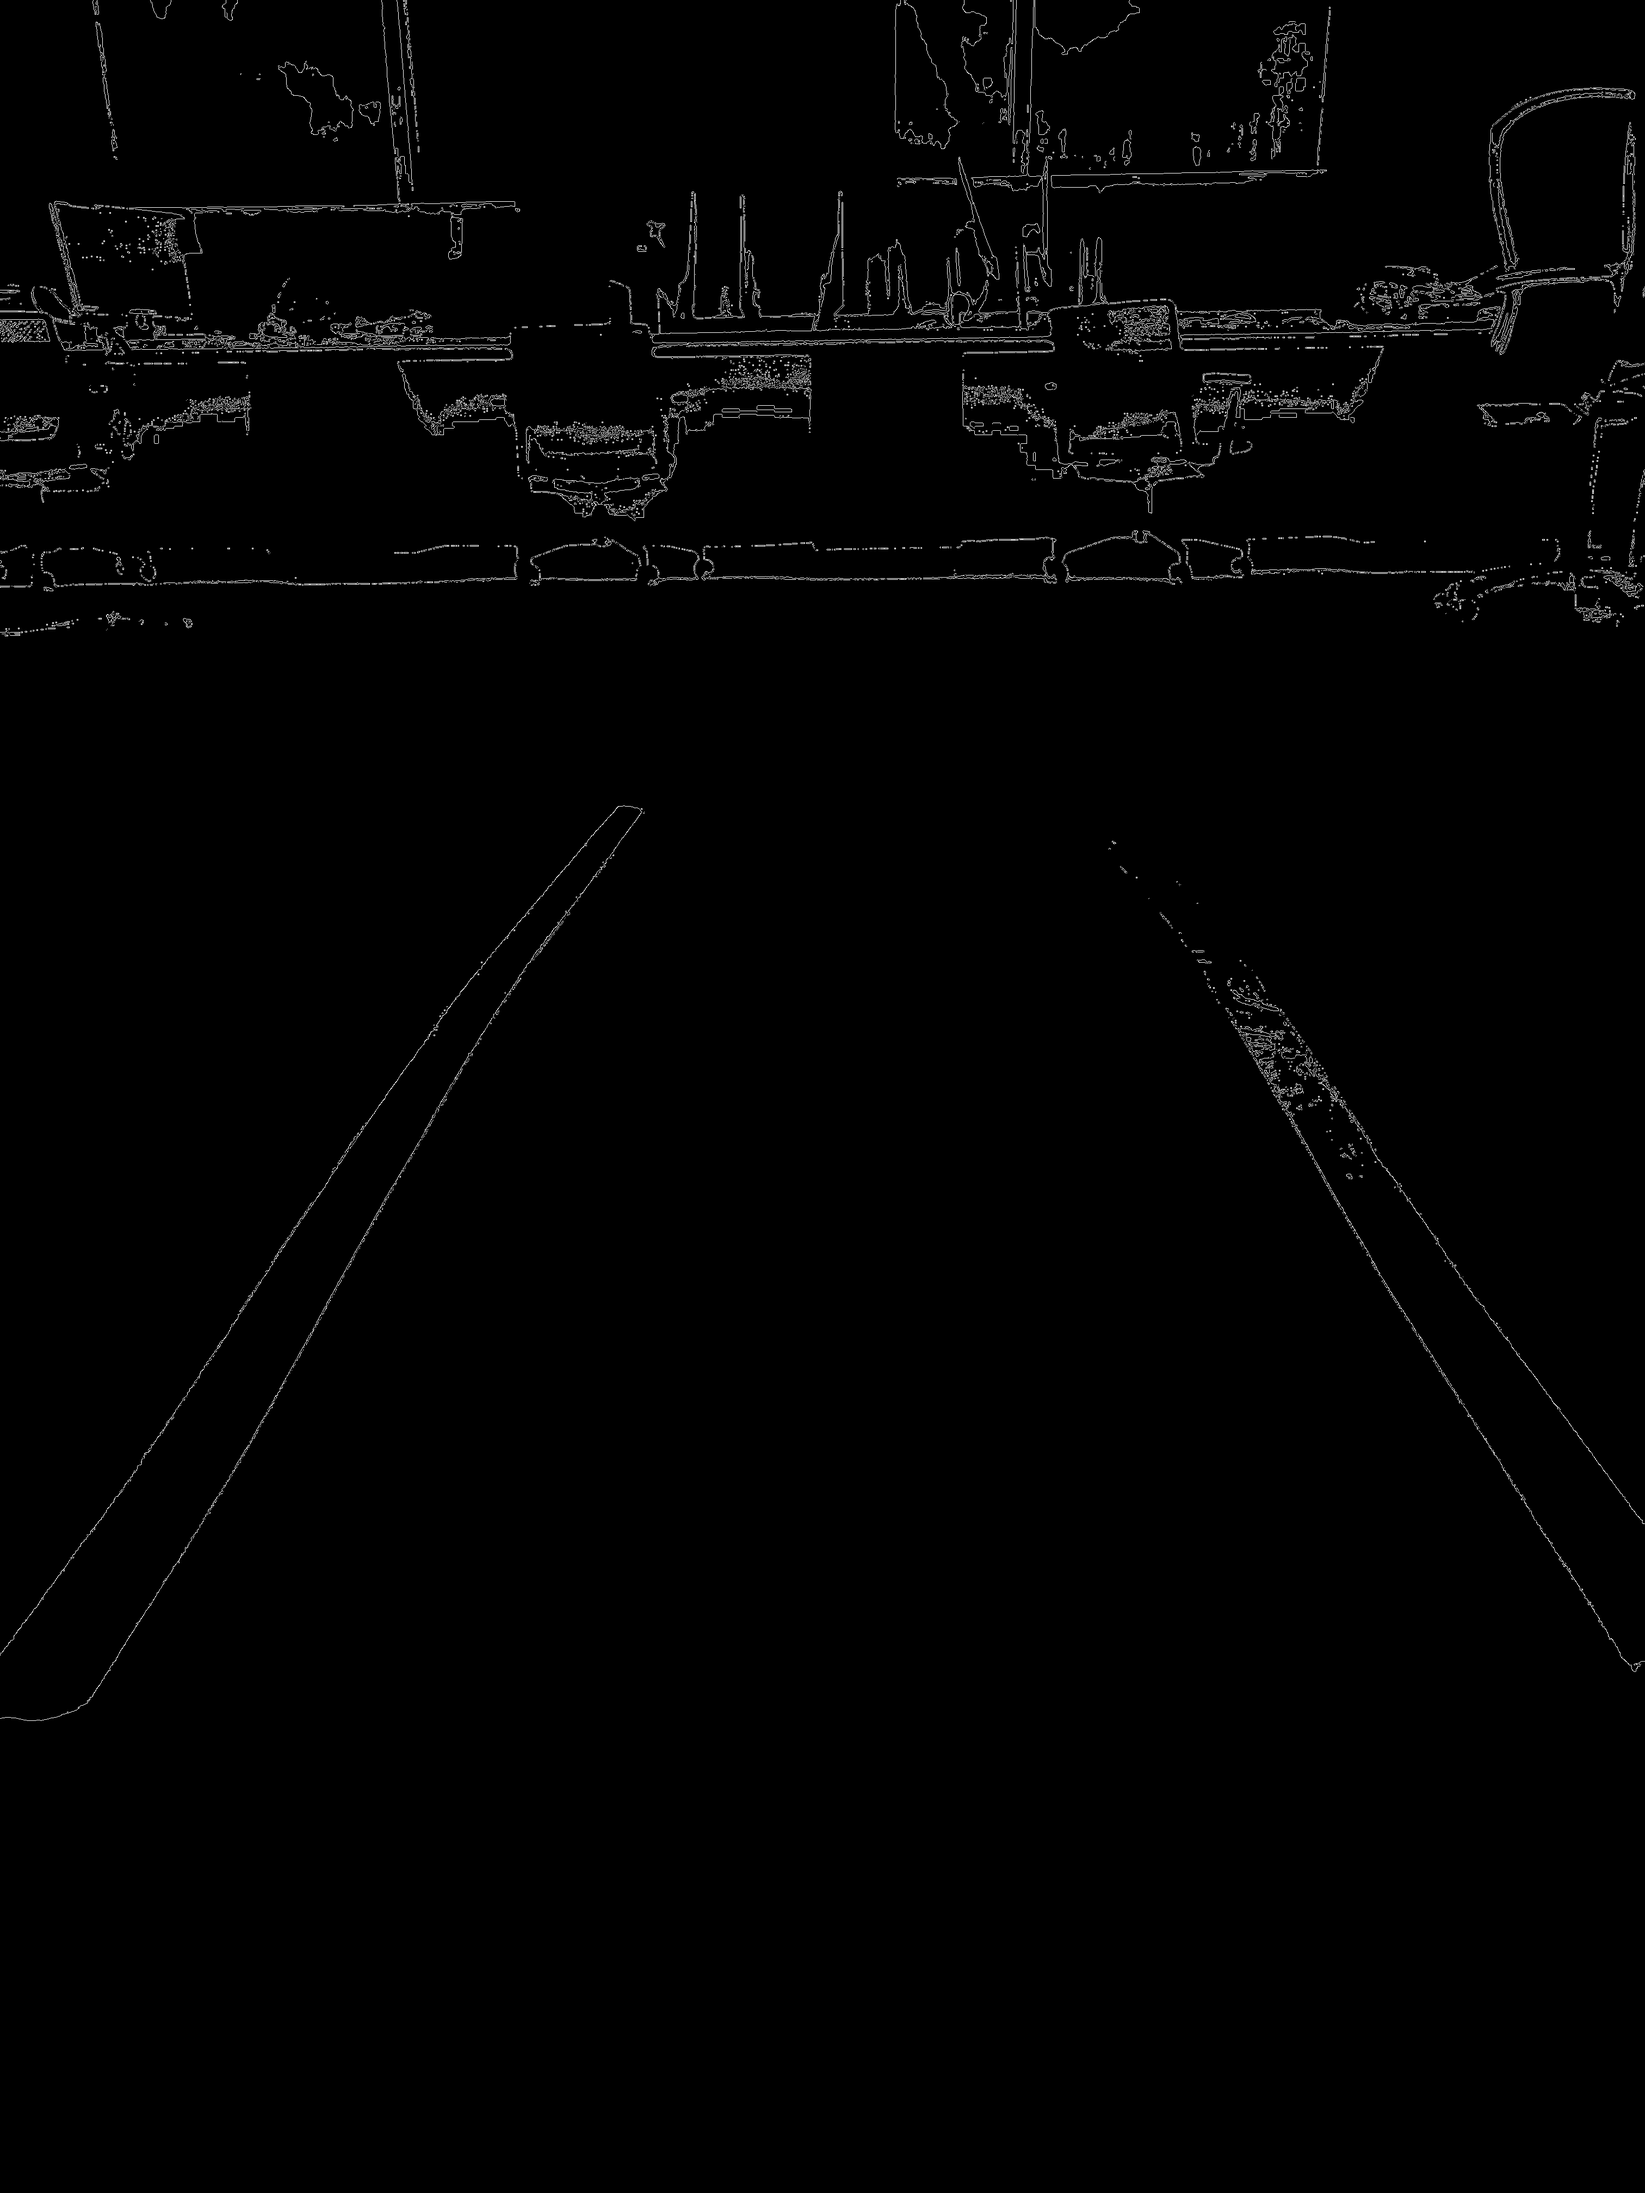
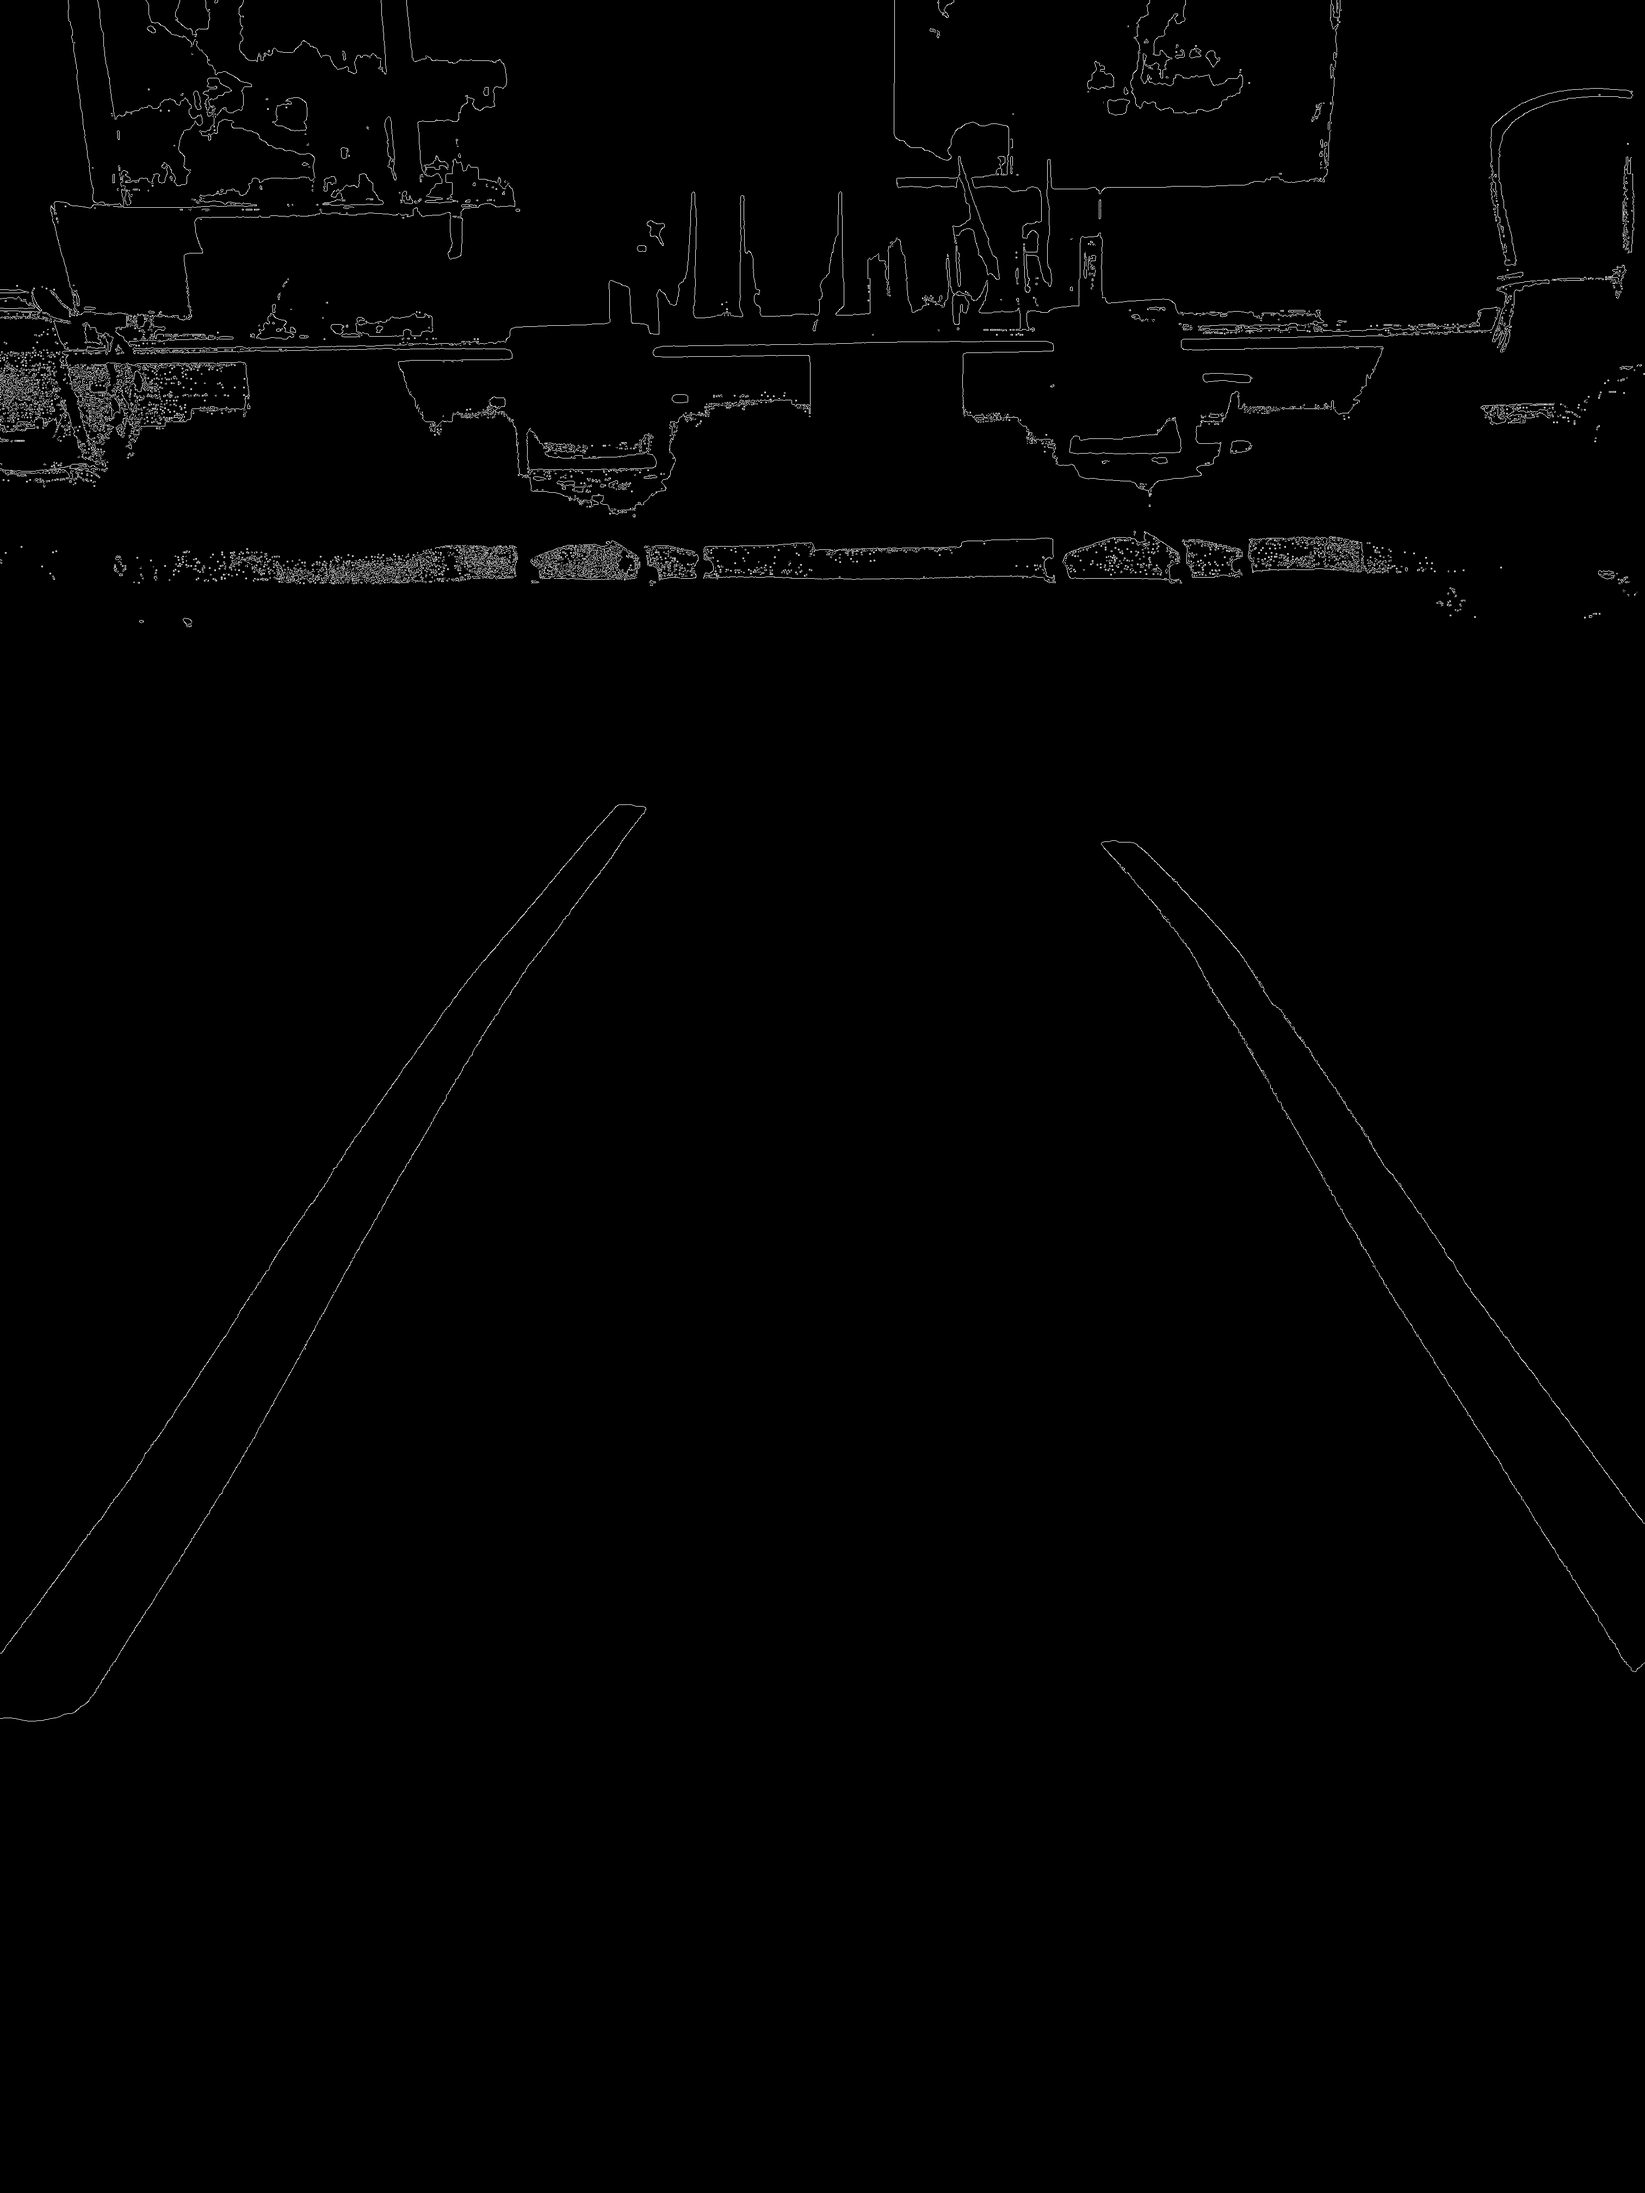
added method to process imgs in lab room

diff --git a/Image_Proc_Demo/utils.py b/Image_Proc_Demo/utils.py
@@ -15,8 +15,8 @@
 # Revision History:
 # Date       | Engineer     | Description
 # -----------|--------------|--------------------------------
-# 09-10-2022 | Mann, P.    | Initial Release
-#
+# 09-10-2022 | Mann, P.     | Initial Release
+# 09-14-2022 | Mann, P.     | Added functions 
 #============================================================
 
 
@@ -42,6 +42,8 @@ from skimage import feature
 
 def detect_lines_old(frame): 
     into_hsv =cv2.cvtColor(frame,cv2.COLOR_BGR2HSV)
+    #blue_lower=np.array([100,150,0],np.uint8)
+    #blue_upper=np.array([140,255,255],np.uint8) 
     
     L_limit=np.array([98,50,50]) # setting the blue lower limit
     U_limit=np.array([139,255,255]) # setting the blue upper limit
@@ -56,10 +58,9 @@ def detect_lines_old(frame):
     return lines 
 def detect_lines(frame): 
     into_hsv =cv2.cvtColor(frame,cv2.COLOR_BGR2HSV)
-     
-    into_hsv =cv2.cvtColor(into_hsv,cv2.COLOR_BGR2HSV)
-    L_limit=np.array([10,100,20]) # setting the orange lower limit
-    U_limit=np.array([25,255,255]) # setting the orange upper limit
+    
+    L_limit=np.array([0,50,50]) # setting the orange lower limit
+    U_limit=np.array([30,255,255]) # setting the orange upper limit
  
     o_mask=cv2.inRange(into_hsv,L_limit,U_limit)
     orange=cv2.bitwise_and(frame,frame,mask=o_mask)
